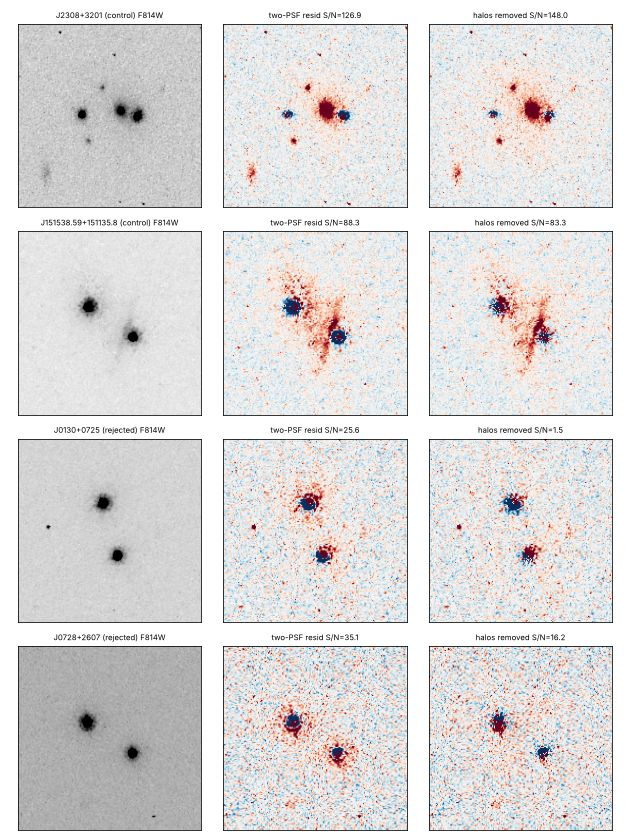
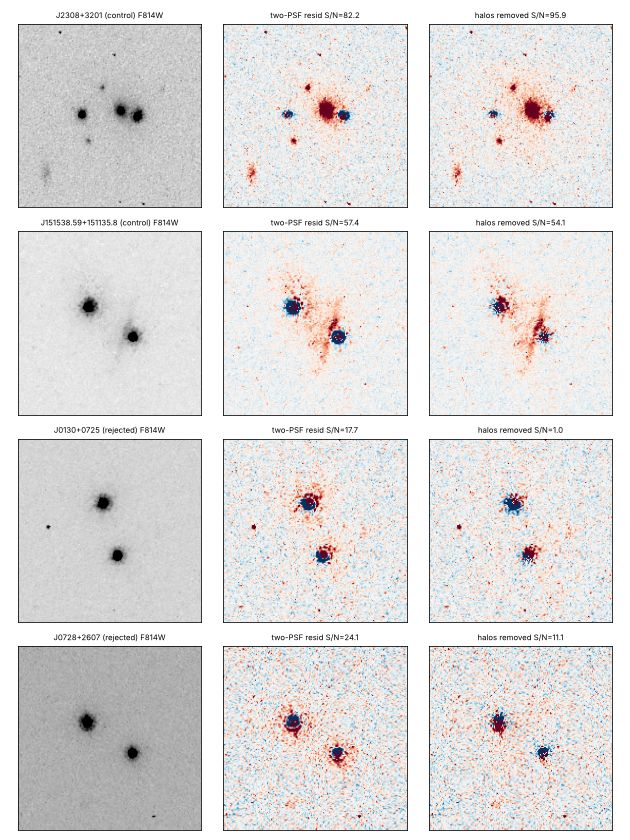
w12_niq_hst review fixes: drizzle-correlated errors, injection-calibrated limit (F814W ~ 24), masked missing pixels, pair-separation check, over-subtraction status, HAP failures recorded
Claude-Session: https://claude.ai/code/session_019LSe4iFhMM71ebevsjGfnY

diff --git a/scripts/w12_niq_hst.py b/scripts/w12_niq_hst.py
@@ -2,7 +2,8 @@
 
 For each pair with HAP imaging (MAST hapcut, F814W preferred), fit two point sources with a shared
 Moffat profile plus a constant background, then measure the residual flux inside the circle that
-has the two images as its diameter (minus 0.15" around each image). The D-064 control lenses with
+has the two images as its diameter (beyond ``Params.image_mask_arcsec`` from each image, after
+removing each image's halo residual). The D-064 control lenses with
 HST imaging go through the same chain first: the test is trusted only if it shows their lens
 galaxies. Thresholds are ASSUMPTIONs (``Params``); outputs are ``derived``.
 
@@ -48,6 +49,7 @@ class Params:
     # residual excludes the image cores (PSF-core mismatch; 0.15" left core residuals in J0728)
     image_mask_arcsec: float = 0.3
     detect_sigma: float = 5.0  # residual flux / its noise for "residual >= 5 sigma"
+    sep_match_arcsec: float = 0.5  # the fitted pair must be the catalogued pair (as D-064)
 
 
 def pick_image(files, c: SkyCoord, radius_arcsec: float) -> Path | None:
@@ -129,7 +131,9 @@ def remove_halos(res: np.ndarray, fit, nbin: float = 1.0) -> np.ndarray:
     return out
 
 
-def residual_between(res: np.ndarray, fit, pix_arcsec: float, p: Params, noise: float) -> dict:
+def residual_between(
+    res: np.ndarray, fit, pix_arcsec: float, p: Params, noise: float, valid=None
+) -> dict:
     """Residual flux in the pair-diameter circle, excluding the image cores, and its S/N."""
     (x1, y1), (x2, y2) = (fit.x_0_1.value, fit.y_0_1.value), (fit.x_0_2.value, fit.y_0_2.value)
     xc, yc = (x1 + x2) / 2, (y1 + y2) / 2
@@ -138,6 +142,8 @@ def residual_between(res: np.ndarray, fit, pix_arcsec: float, p: Params, noise: 
     core = p.image_mask_arcsec / pix_arcsec
     m = (np.hypot(xx - xc, yy - yc) <= r) & (np.hypot(xx - x1, yy - y1) > core)
     m &= np.hypot(xx - x2, yy - y2) > core
+    if valid is not None:
+        m &= valid  # missing or edge pixels are not data
     flux = float(res[m].sum())
     err = float(noise * np.sqrt(m.sum()))
     return {
@@ -163,23 +169,30 @@ def run(args) -> None:
         d = out / name
         d.mkdir(exist_ok=True)
         c = SkyCoord(float(r["ra"]), float(r["dec"]), unit="deg")
-        files = list(d.glob("*.fits")) or list(
-            Hapcut.download_cutouts(c, size=[p.size_px, p.size_px], path=str(d))["Local Path"]
-        )
-        f = pick_image(files, c, p.search_arcsec)
+        try:
+            files = list(d.glob("*.fits")) or list(
+                Hapcut.download_cutouts(c, size=[p.size_px, p.size_px], path=str(d))["Local Path"]
+            )
+            f = pick_image(files, c, p.search_arcsec)
+        except Exception as e:  # no HAP footprint, service error: recorded, never a pass
+            files, f = [], None
+            print(f"{name}: no HAP cutout ({type(e).__name__})")
         row = {
             "name": name,
             "group": str(r["group"]),
             "sep_cat": float(r["sep_cat"]),
             "hst_image": f.name if f else "",
-            "status": "no HST F814W",
+            "status": "no HST F814W HAP cutout",
         }
         if f is not None:
             with fits.open(f) as h:
                 hdu = next(x for x in h if x.data is not None and x.data.ndim == 2)
-                img = np.nan_to_num(hdu.data.astype(float))
+                data = hdu.data.astype(float)
                 w = WCS(hdu.header)
                 zp = ab_zeropoint(hdu.header, h[0].header)
+            valid_all = np.isfinite(data) & (data != 0)  # 0 = outside the drizzled footprint
+            corr = noise_correlation(data, valid_all)
+            img = np.where(valid_all, data, np.median(data[valid_all]))
             pix = float(np.sqrt(abs(np.linalg.det(w.pixel_scale_matrix))) * 3600)
             x0, y0 = w.world_to_pixel(c)
             peaks = find_two_peaks(img, (x0, y0), p.search_arcsec / pix, 0.5 * r["sep_cat"] / pix)
@@ -187,28 +200,39 @@ def run(args) -> None:
             xm, ym = np.mean([q[0] for q in peaks]), np.mean([q[1] for q in peaks])
             half = int(1.5 * r["sep_cat"] / pix) + 10
             y0s, x0s = max(int(ym) - half, 0), max(int(xm) - half, 0)
-            img = img[y0s : int(ym) + half, x0s : int(xm) + half]
+            stamp = (slice(y0s, int(ym) + half), slice(x0s, int(xm) + half))
+            img, valid = img[stamp], valid_all[stamp]
             peaks = [(x - x0s, y - y0s) for x, y in peaks]
             fit, res = two_psf_fit(img, peaks)
-            mad = 1.4826 * np.median(np.abs(res - np.median(res)))
+            # aperture noise: pixel MAD x the drizzle correlation factor
+            noise = 1.4826 * np.median(np.abs(res[valid] - np.median(res[valid]))) * corr
             clean = remove_halos(res, fit)
-            row.update(residual_between(clean, fit, pix, p, mad), pixel_arcsec=pix)
-            raw = residual_between(res, fit, pix, p, mad)
-            row["resid_snr_raw"] = raw["resid_snr"]
+            row.update(residual_between(clean, fit, pix, p, noise, valid), pixel_arcsec=pix)
+            row["noise_corr"] = corr
+            row["resid_snr_raw"] = residual_between(res, fit, pix, p, noise, valid)["resid_snr"]
+            snr = row["resid_snr"]
             # the S/N states a residual only; lens light or core mismatch needs the stamp
-            row["status"] = (
-                "residual >= 5 sigma" if row["resid_snr"] >= p.detect_sigma else "no residual"
-            )
+            if abs(row["sep_arcsec"] - row["sep_cat"]) > p.sep_match_arcsec:
+                row["status"] = "pair mismatch"
+            elif not np.isfinite(snr) or snr <= -p.detect_sigma:
+                row["status"] = "fit inconclusive (over-subtraction)"
+            else:
+                row["status"] = "residual >= 5 sigma" if snr >= p.detect_sigma else "no residual"
             row["zp_ab"] = zp
             row["mag_resid"] = (
                 zp - 2.5 * np.log10(row["resid_flux"]) if row["resid_flux"] > 0 else np.nan
             )
             row["mag_5sigma"] = zp - 2.5 * np.log10(p.detect_sigma * row["resid_err"])
+            row["mag_limit_inject"] = np.nan
             if row["status"] == "no residual":
-                for mag, snr, frac in inject_recovery(img, peaks, fit, pix, p, zp):
+                rec = inject_recovery(img, peaks, fit, pix, p, zp, noise, valid)
+                for mag, s_inj, frac in rec:
                     inj.append(
-                        {"name": name, "inject_mag": mag, "recovered_snr": snr, "flux_frac": frac}
-                    )
+                        {"name": name, "inject_mag": mag, "recovered_snr": s_inj,
+                         "snr_above_baseline": s_inj - snr, "flux_frac": frac}
+                    )  # fmt: skip
+                ok = [mag for mag, s_inj, _ in rec if s_inj - snr >= p.detect_sigma]
+                row["mag_limit_inject"] = max(ok) if ok else np.nan
             panels.append((name, row, img, res, clean, fit))
         rows.append(row)
         print(row)
@@ -231,6 +255,23 @@ def run(args) -> None:
     sheet(panels, res_dir / "hst_residuals.jpg")
 
 
+def noise_correlation(img: np.ndarray, valid: np.ndarray, block: int = 5) -> float:
+    """Factor by which drizzle-correlated noise inflates an aperture sum: std of block sums of
+    source-free background pixels over sqrt(block²) x the pixel std (1 for white noise)."""
+    good = valid & np.isfinite(img)
+    med = np.median(img[good])
+    sd = 1.4826 * np.median(np.abs(img[good] - med))
+    bg = good & (np.abs(img - med) < 3 * sd)
+    n0, n1 = (s // block * block for s in img.shape)
+    a = np.where(bg, img - med, np.nan)[:n0, :n1].reshape(n0 // block, block, n1 // block, block)
+    full = np.isfinite(a).all(axis=(1, 3))
+    sums = np.nansum(a, axis=(1, 3))[full]
+    if len(sums) < 20:
+        return np.nan
+    sd_sum = 1.4826 * np.median(np.abs(sums - np.median(sums)))
+    return float(sd_sum / (block * sd))
+
+
 def ab_zeropoint(hdr, primary) -> float:
     """AB zero point for an image in electrons/s from PHOTFLAM and PHOTPLAM (STScI convention)."""
     pf = hdr.get("PHOTFLAM", primary.get("PHOTFLAM"))
@@ -238,7 +279,9 @@ def ab_zeropoint(hdr, primary) -> float:
     return float(-2.5 * np.log10(pf) - 5 * np.log10(pl) - 2.408) if pf and pl else np.nan
 
 
-def inject_recovery(img, peaks, fit, pix, p: Params, zp: float, mags=(21, 22, 23, 24, 25)):
+def inject_recovery(
+    img, peaks, fit, pix, p: Params, zp: float, noise: float, valid, mags=(21, 22, 23, 24, 25)
+):
     """Inject an early-type lens galaxy (Sersic n = 4, r_eff 0.3") at the SIS-predicted position
     (on the line between the images, at sep * f / (1 + f) from the fainter one, f = faint/bright)
     into the real stamp and re-measure with the same chain. Returns (mag, S/N, flux fraction)."""
@@ -257,8 +300,7 @@ def inject_recovery(img, peaks, fit, pix, p: Params, zp: float, mags=(21, 22, 23
     for mag in mags:
         flux = 10 ** (-0.4 * (mag - zp))
         f2, res = two_psf_fit(img + flux * g, peaks)
-        mad = 1.4826 * np.median(np.abs(res - np.median(res)))
-        m = residual_between(remove_halos(res, f2), f2, pix, p, mad)
+        m = residual_between(remove_halos(res, f2), f2, pix, p, noise, valid)
         out.append((mag, m["resid_snr"], m["resid_flux"] / flux))
     return out
 
@@ -272,20 +314,19 @@ def sheet(panels, path: Path) -> None:
 
     n = len(panels)
     fig, axes = plt.subplots(n, 3, figsize=(9, 3 * n), squeeze=False)
-    for i, (name, row, img, model, res, _fit) in enumerate(panels):
-        sl = (slice(None), slice(None))  # the stamp is already cropped around the pair
-        vmax = np.percentile(img[sl], 99.5)
-        rs = np.percentile(np.abs(res[sl]), 99)
+    for i, (name, row, img, raw, clean, _fit) in enumerate(panels):
+        vmax = np.percentile(img, 99.5)
+        rs = np.percentile(np.abs(raw), 99)
         div = {"vmin": -rs, "vmax": rs, "cmap": "RdBu_r"}
         for ax, im, title, kw in (
             (
                 axes[i, 0],
-                img[sl],
+                img,
                 f"{name} ({row['group']}) F814W",
                 {"vmin": -0.05 * vmax, "vmax": vmax},
             ),
-            (axes[i, 1], model[sl], f"two-PSF resid S/N={row['resid_snr_raw']:.1f}", div),
-            (axes[i, 2], res[sl], f"halos removed S/N={row['resid_snr']:.1f}", div),
+            (axes[i, 1], raw, f"two-PSF resid S/N={row['resid_snr_raw']:.1f}", div),
+            (axes[i, 2], clean, f"halos removed S/N={row['resid_snr']:.1f}", div),
         ):
             ax.imshow(im, origin="lower", **({"cmap": "gray_r"} | kw))
             ax.set_title(title, fontsize=8)

diff --git a/docs/exotic_limits.md b/docs/exotic_limits.md
@@ -1183,26 +1183,29 @@ The ordinary explanations are binary quasars, unrelated pairs and lens galaxies 
 `hst_injections.ecsv`, `hst_residuals.jpg`; MAST HAP cutouts).
 - Coverage: HST F814W imaging exists for 2 of the 11 pairs (J0130+0725, J0728+2607; ACS, program 17308, 674 s)
   and for 2 of the 5 control lenses (J2308+3201, ACS 17308; SDSS J1515+1511, WFC3/UVIS 17199). The other 9 pairs
-  have no HST imaging.
+  have no HST imaging of any kind within 10″ in MAST (`Observations.query_region`, 2026-10-09).
 - Method:
   - two point sources with a shared Moffat profile plus a background, fitted on a stamp around the pair;
   - the residual of each image's PSF halo is removed, using its radial profile on the side facing away from the
     other image;
-  - the residual flux is summed in the pair-diameter circle beyond 0.3″ from each image.
+  - the residual flux is summed in the pair-diameter circle beyond 0.3″ from each image;
+  - its error is the pixel MAD times a drizzle noise-correlation factor (1.44–1.54, from 5 × 5 block sums of
+    background pixels); missing pixels are masked;
+  - the fitted pair must match the catalogued separation within 0.5″.
   Thresholds are ASSUMPTIONs (`Params`: 5σ, 0.3″ core mask).
 - Validation (the chain is trusted only because of these):
-  - both control lenses show their lens galaxies at S/N 148 (J2308, F814W 21.2) and 83 (J1515, F814W 21.8);
+  - both control lenses show their lens galaxies at S/N 96 (J2308, F814W 21.2) and 54 (J1515, F814W 21.8);
   - an early-type lens galaxy (Sersic n = 4, r_eff 0.3″) injected at the SIS-predicted position into the real
-    J0130 stamp is recovered at S/N 160 / 66 / 28 / 12 / 5.7 for F814W = 21 / 22 / 23 / 24 / 25.
-- **J0130+0725 (z = 1.54, 2.06″): no residual (S/N 1.5); 5σ limit F814W ≈ 25.0.** An ordinary lens needs
-  m_z ≈ 19.4 (typical) or 21.7 (conservative, 2σ under-luminous), i.e. F814W ≈ 20–22, which is ≥ 3 mag brighter
-  than the limit. No ordinary lens galaxy is visible. The leading ordinary explanation remains a binary quasar
+    J0130 stamp is recovered at S/N 117 / 47 / 19 / 8.4 / 4.0 for F814W = 21 / 22 / 23 / 24 / 25.
+- **J0130+0725 (z = 1.54, 2.06″): no residual (S/N 1.0). Limit F814W ≈ 24.0**: the faintest injection recovered at
+  ≥ 5σ above the baseline. The noise-only 5σ limit is 24.6. An ordinary lens needs m_z ≈ 19.4 (typical) or 21.7
+  (conservative, 2σ under-luminous), i.e. F814W ≈ 20–22, which is ≥ 2 mag brighter than the limit. No ordinary lens galaxy is visible. The leading ordinary explanation remains a binary quasar
   (Lemon et al. 2023 classify it as a UQP), and it is untested here: spectra of both images, or the flux-ratio
   stability between epochs, are needed. It is **not** a candidate until that test runs (scripts/CLAUDE.md).
-- **J0728+2607 (z = 1.03, 2.15″): inconclusive.** S/N 16 (F814W 23.5 if real), but the stamp shows the residual at
+- **J0728+2607 (z = 1.03, 2.15″): inconclusive.** S/N 11 (F814W 23.5 if real), but the stamp shows the residual at
   the image cores (core mismatch of the Moffat model), plus a compact spot about 0.25″ from image B, inside the
   mask. An empirical PSF (a star in the same visit, or a focus-matched PSF model) is needed before any statement.
-- The halo correction is essential: without it, J0130 reads S/N 25.6 and J0728 35.1, from symmetric PSF-halo
+- The halo correction is essential: without it, J0130 reads S/N 17.7 and J0728 24.1, from symmetric PSF-halo
   mismatch alone.
 
 **Consequence for D-056.** D-056's quasar-class limits assume that a dark lens gives "none" (true). Its "none"

diff --git a/CHANGELOG.md b/CHANGELOG.md
@@ -2,16 +2,17 @@
 
 Newest first. Results, failed approaches and the handoff state; not a diary.
 
-## 2026-10-09: D-064 addendum: archival HST of the untestable rejected pairs; J0130+0725 has no lens light to F814W ≈ 25
+## 2026-10-09: D-064 addendum: archival HST of the untestable rejected pairs; J0130+0725 has no lens light to F814W ≈ 24
 - Coverage: 2 of the 11 untestable pairs have HST F814W imaging (program 17308), and so do 2 controls.
-- Method: a two-PSF fit, halo correction, and the residual flux between the images. Validated on both controls
-  (S/N 148, 83) and on injections into the real stamp (recovered to F814W = 25).
-- **J0130+0725:** no residual (S/N 1.5). The 5σ limit F814W ≈ 25.0 is ≥ 3 mag fainter than any ordinary lens. A
+- Method: a two-PSF fit, halo correction, and the residual flux between the images, with drizzle-correlated
+  errors. Validated on both controls (S/N 96, 54) and on injections into the real stamp (recovered to F814W = 24).
+- **J0130+0725:** no residual (S/N 1.0). The limit F814W ≈ 24.0 is ≥ 2 mag fainter than any ordinary lens. A
   binary quasar remains the untested ordinary explanation; it needs spectra of both images. Not a candidate.
 - **J0728+2607:** inconclusive (residuals at the image cores); it needs an empirical PSF.
 - **Failed approaches:**
   - the HAP "combined_skycells" product has a WCS that does not describe its pixels;
-  - without the halo correction, PSF mismatch alone gives S/N 26–35;
+  - without the halo correction, PSF mismatch alone gives S/N 18–24;
+  - white-noise errors on drizzled pixels overstate S/N by ~1.5;
   - a 60-px cutout cannot hold the pair, because the catalogue position is one image.
 - **Next:** spectra or two-epoch flux ratios for J0130+0725 (binary vs lens); an empirical PSF for J0728+2607;
   Euclid DR1 when public for the 9 pairs without HST imaging.

diff --git a/DECISIONS.md b/DECISIONS.md
@@ -3059,14 +3059,16 @@ colour-mismatched, 2 are catalogued binaries and 1 has two redshifts; 11 remain 
 **Addendum (2026-10-09, archival HST).** `scripts/w12_niq_hst.py` tests the pairs with HST F814W imaging: 2 of the 11,
 and 2 controls. It fits two Moffat PSFs, removes the halo residual from the profile facing away from the other image,
 and measures the residual flux between the images.
-- Validation: both controls are detected (S/N 148 and 83), and injections are recovered to F814W = 25.
+- Validation: both controls are detected (S/N 96 and 54), and injections are recovered at ≥ 5σ above the baseline to
+  F814W = 24. Errors include a drizzle noise-correlation factor of about 1.5.
 - Result:
-  - J0130+0725 has no lens light to F814W ≈ 25 (5σ), ≥ 3 mag below any ordinary lens. A binary quasar remains the
-    untested ordinary explanation;
+  - J0130+0725 has no lens light to F814W ≈ 24 (injection-calibrated), ≥ 2 mag below any ordinary lens. A binary
+    quasar remains the untested ordinary explanation;
   - J0728+2607 is inconclusive (PSF-core residuals).
 - Rejected alternatives:
   - the "combined_skycells" HAP cutout, whose WCS does not describe its pixels (separations of 10⁴″);
-  - an aperture statistic without the halo correction, which gave S/N 26–35 from PSF mismatch alone;
+  - an aperture statistic without the halo correction, which gave S/N 18–24 from PSF mismatch alone;
+  - white-noise aperture errors on drizzled pixels, which inflate S/N by ~1.5;
   - a 0.15″ core mask, which left core residuals.
 
 **Revisit if** HST, Euclid or HSC PDR3 image models (PSF-subtracted) are available for the 11 colour-matched pairs;

diff --git a/TASKS.md b/TASKS.md
@@ -20,7 +20,7 @@ Evidence for the current priorities: D-023 (owner, 2026-10-08), D-025/D-026 and 
    lenses, the only selections sensitive to a dark lens). Next: HSC PDR3 photometry or PSF-subtracted HST
    image models for the 307 blended or too-close lensed quasars (makes the test decisive; HST *catalogue* photometry
    is not: D-060, efficiency 0.46); the CHITAH lens models of the 3 open SuGOHI IX pairs; rejected lensed-quasar pairs: LS DR10 cannot decide them
-   (D-064, control efficiency 0/5 at 1.9–2.6″); of the 11 colour-matched ones, J0130+0725 has no lens light in HST to F814W ≈ 25 (D-064 addendum: binary vs dark
+   (D-064, control efficiency 0/5 at 1.9–2.6″); of the 11 colour-matched ones, J0130+0725 has no lens light in HST to F814W ≈ 24 (D-064 addendum: binary vs dark
    lens needs spectra of both images or two-epoch flux ratios), J0728+2607 needs an empirical PSF, and 9 have no HST
    (Euclid DR1 when public); port D-064's LS-pair = catalogued-pair
    check (`w12_niq` `pair_match`) into the shared D-056 quasar pair test and re-run D-056; HST lens photometry (CASTLES-type) for the blended quasar systems; ALMA positions for submm systems;
